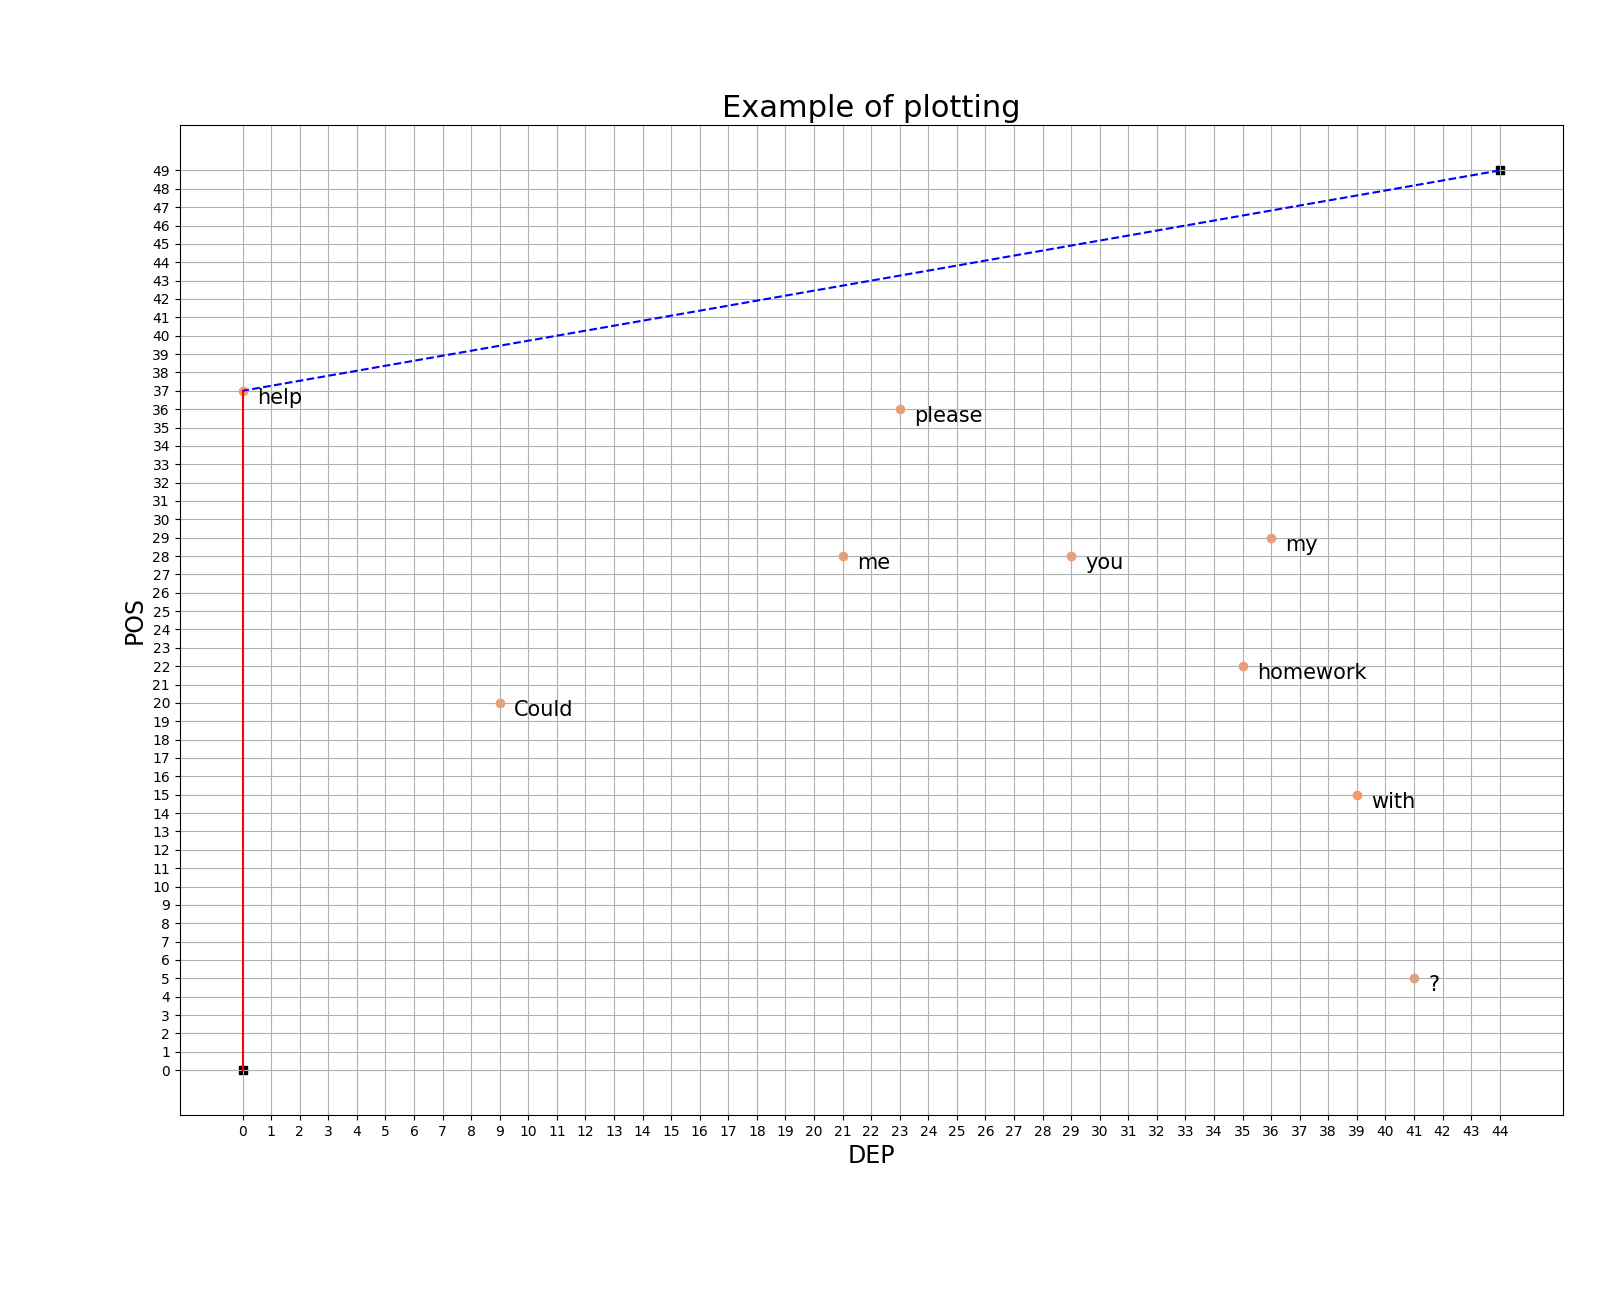
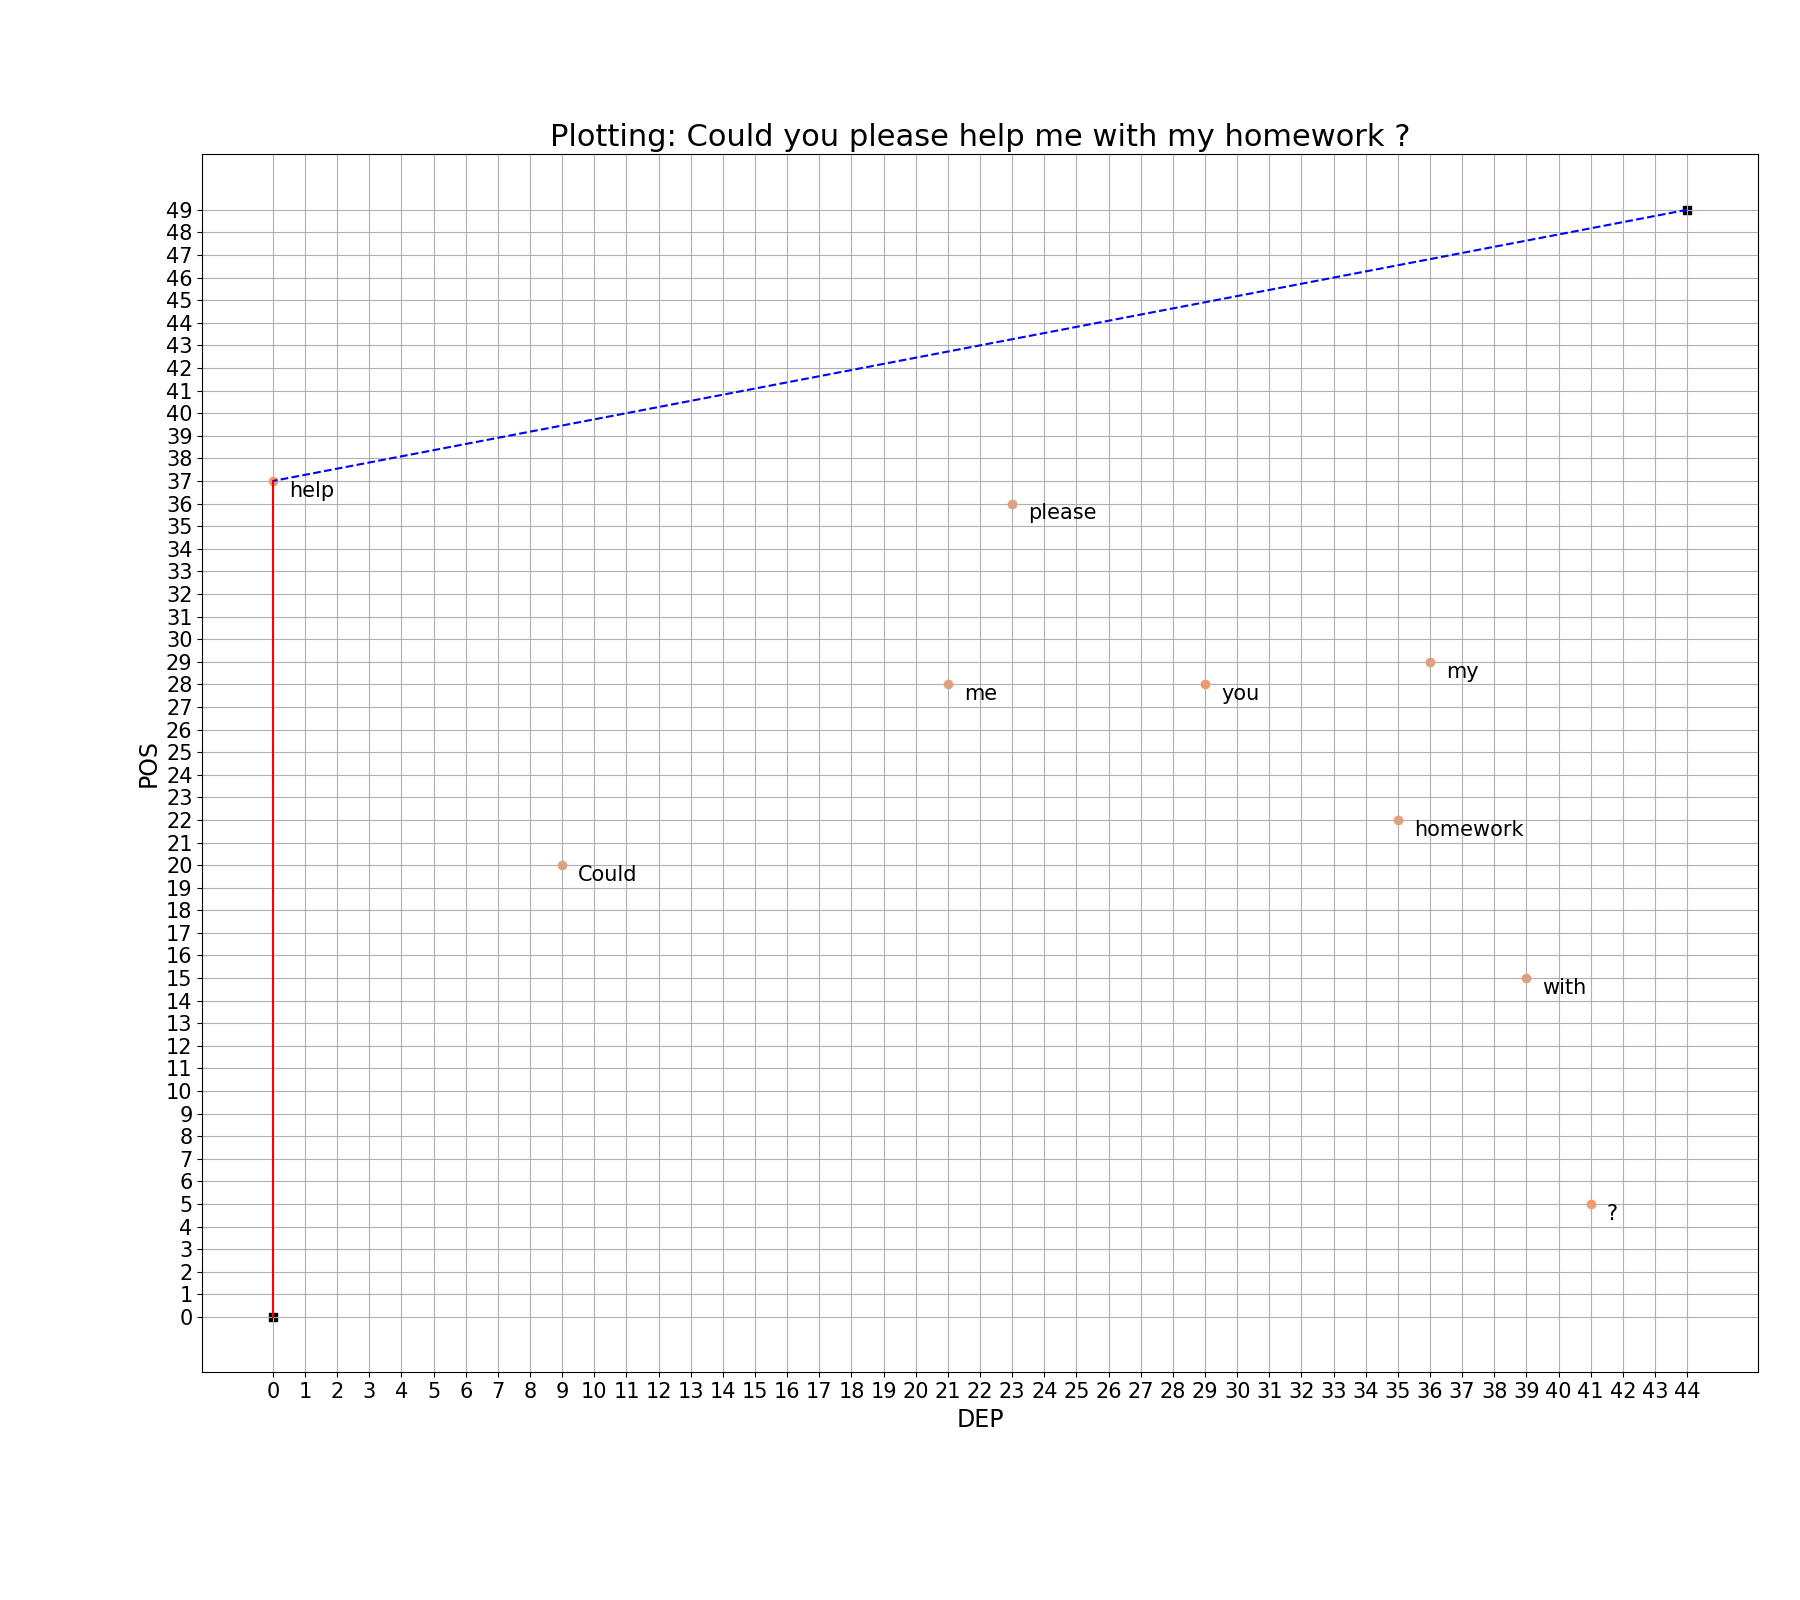
Improve chart generator style

diff --git a/Develop/CreateChart.py b/Develop/CreateChart.py
@@ -5,6 +5,7 @@ import json
   
 POINT_O = [0, 0]
 POINT_R = [44, 49]  
+TEXT = "Could you please help me with my homework ?"
 # Opening JSON file
 f = open('Info.json')
   
@@ -41,7 +42,7 @@ ax.scatter(x_values, y_values, color ='#ff9861')
 
 ax.set_xlabel('DEP',fontsize=17)
 ax.set_ylabel('POS', fontsize=17)
-ax.set_title('Example of plotting',fontsize=22)
+ax.set_title('Plotting: ' + TEXT,fontsize=22)
 
 ax.grid(True)
 fig.tight_layout()
@@ -53,10 +54,10 @@ plt.plot(d1_x, d1_y, color = 'red', linestyle = 'solid')
 plt.plot(d2_x, d2_y, color = 'blue', linestyle = 'dashed')
 ax.scatter([POINT_O[0],POINT_R[0]], [POINT_O[1], POINT_R[1]], marker='s', color = 'black')
 
-plt.xticks(range(POINT_O[0], POINT_R[0]+1))
-plt.yticks(range(POINT_O[1], POINT_R[1]+1))
+plt.xticks(range(POINT_O[0], POINT_R[0]+1), fontsize=15)
+plt.yticks(range(POINT_O[1], POINT_R[1]+1), fontsize=15)
 
 # figure(figsize=(3, 2), dpi=80)
-plt.gcf().set_size_inches(16, 13)
+plt.gcf().set_size_inches(18, 16)
 
 plt.savefig('./Exemplo.png')
